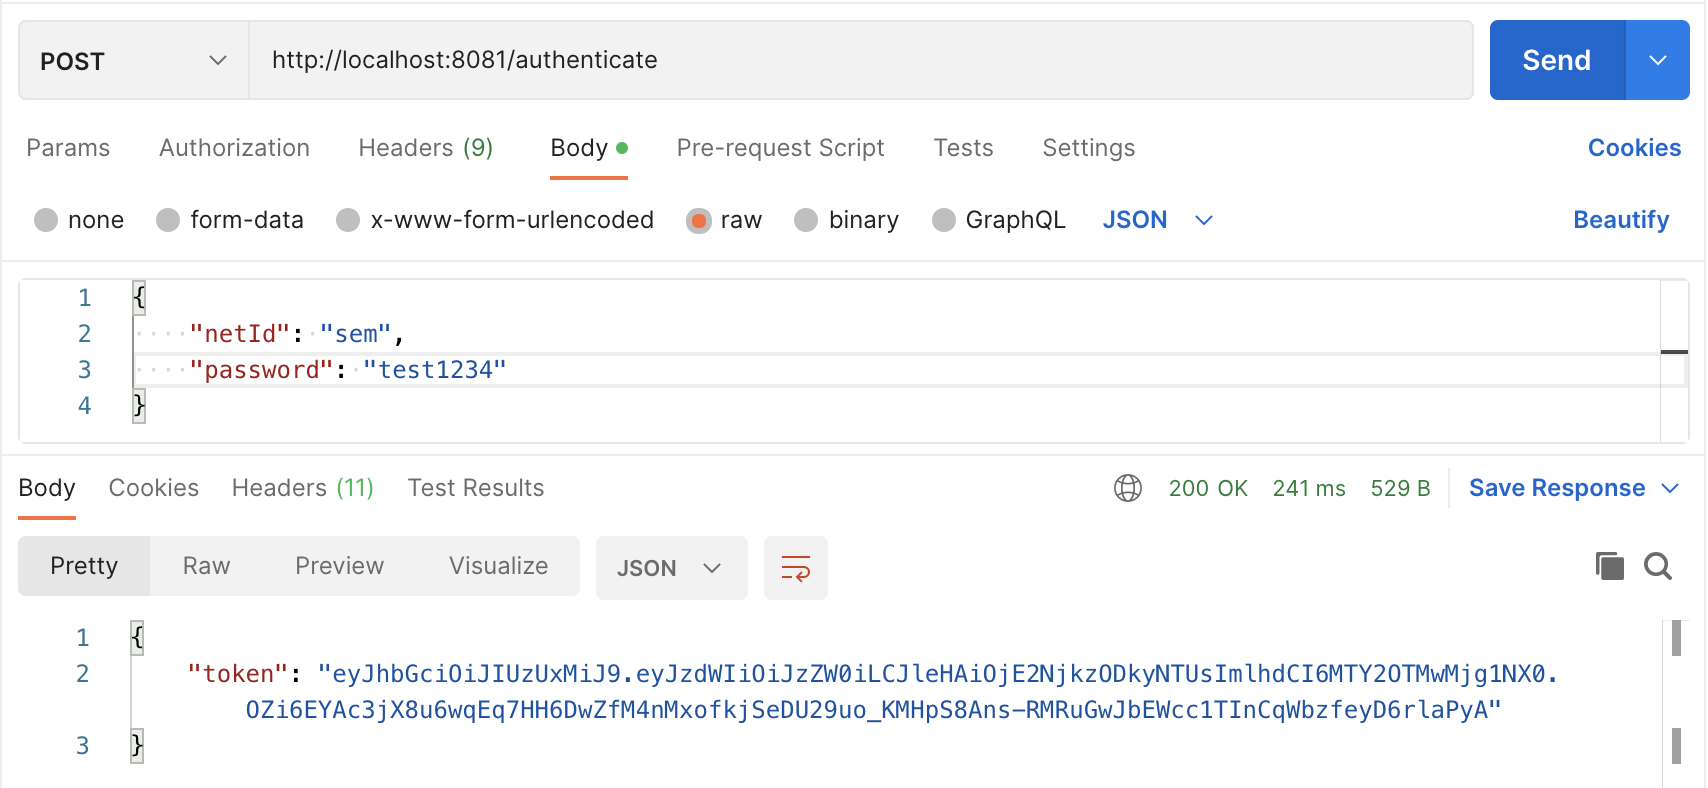
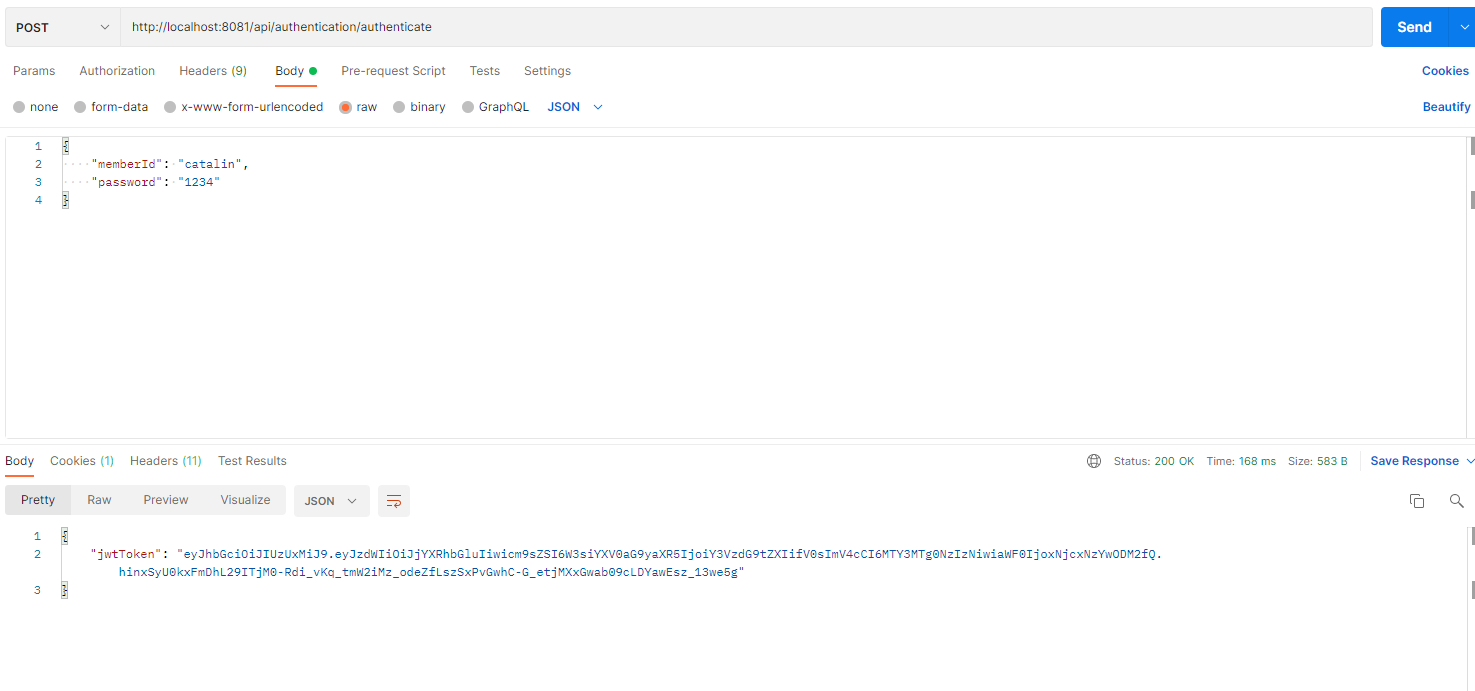
Updating the README file

diff --git a/order-microservice/src/main/java/nl/tudelft/sem/group06b/order/communication/MenuCommunication.java b/order-microservice/src/main/java/nl/tudelft/sem/group06b/order/communication/MenuCommunication.java
@@ -129,7 +129,7 @@ public class MenuCommunication {
         HttpEntity request = new HttpEntity(headers);
         ResponseEntity<String> response = restTemplate.exchange(
                 menuUrl + "/containsAllergenTopping/" + toppingId + "/" + memberId,
-                HttpMethod.GET,
+                HttpMethod.POST,
                 request,
                 String.class
         );

diff --git a/README.md b/README.md
@@ -1,27 +1,186 @@
-# Lab Template
+# Project: Anni's Pizza
 
-This template contains two microservices:
+This project contains six microservices:
 - authentication-microservice
-- example-microservice
+- coupon-microservice
+- menu-microservice
+- order-microservice
+- store-microservice
+- user-microservice
 
-The `authentication-microservice` is responsible for registering new users and authenticating current ones. After successful authentication, this microservice will provide a JWT token which can be used to bypass the security on the `example-microservice`. This token contains the *NetID* of the user that authenticated. If your scenario includes different roles, these will have to be added to the authentication-microservice and to the JWT token. To do this, you will have to:
-- Add a concept of roles to the `AppUser`
-- Add the roles to the `UserDetails` in `JwtUserDetailsService`
-- Add the roles as claims to the JWT token in `JwtTokenGenerator`
+The `authentication-microservice` is responsible for registering new users and authenticating current ones. After successful authentication, this microservice will provide a JWT token which can be used to bypass the security on the other microservices. This token contains the *memberId* of the user that authenticated.
 
-The `example-microservice` is just an example and needs to be modified to suit the domain you are modeling based on your scenario.
+The `coupon-microservice` is responsible for validating coupon codes and for choosing the best coupon code for minimizing order type. This microservice allows new coupon codes to be added and also to take a possible order and to check if a coupon code gives a better price and return the new price.
+
+The `menu-microservice` is responsible for providing all available assortments of pizza that are available for ordering, while allowing configuring items with customizable toppings and also filtering out or warning users in case of allergens present.
+
+The `order-microservice` is responsible for handling orders. It stores ongoing, placed, finished and canceled orders in a database.
+The order microservice also collects order details. First it collects the order time and location. If the location is not provided the Order will query the Users for the preferred location.
+
+The `store-microservice` is responsible for keeping track of possible store locations. This microservice allows the regional manager to add new or remove existing stores. The store microservice is also responsible for encapsulating dummy email functionality.
+
+The `user-microservice` is responsible for keeping track of allergies that the user has and the location of their preferred store. The user is authenticated using the token given from the authentication microservice. The allergens are queried by the menu and order microservices in order to filter out items or notify the user that they might be allergic to the item.
 
 The `domain` and `application` packages contain the code for the domain layer and application layer. The code for the framework layer is the root package as *Spring* has some limitations on were certain files are located in terms of autowiring.
 
 ## Running the microservices
 
-You can run the two microservices individually by starting the Spring applications. Then, you can use *Postman* to perform the different requests:
+You can run the microservices individually by starting the Spring applications. Then, you can use *Postman* to perform the different requests:
 
-Register:
+### Step 1: Authentication
+#### Register:
 ![image](instructions/register.png)
 
-Authenticate:
+#### Authenticate:
+In case you are a regional manager, change the role first:
+
+![image](instructions/change_role.png)
+
 ![image](instructions/authenticate.png)
 
-Hello:
-![image](instructions/hello.png)
+In case you are a store manager, register with the name `StoremanagerX`, where instead of X you put the id of the store you're an admin of. Then change the role to `store_manager`. Then authenticate.
+
+### Step 2: User Registration (If you are a customer)
+As a customer, you can set your allergens in your details so that you don't have to manually add them every time you order. 
+
+#### To do this, first you add the allergens: 
+
+![image](instructions/user_add_allergen.png)
+
+#### You can also remove any allergen:
+
+![image](instructions/user_remove_allergen.png)
+
+#### You are able to see all of your selected allergens:
+
+![image](instructions/user_get_allergen.png)
+
+### Step 3: Adding stores to database (If you are a regional manager)
+By default, we store 10 stores on the database
+
+To add/delete stores you have to be a regional manager.
+
+#### Adding stores:
+
+![image](instructions/add_store.png)
+
+#### Deleting stores:
+
+![image](instructions/remove_store.png)
+
+#### Viewing all stores:
+
+![image](instructions/get_all_stores.png)
+
+#### Sending emails:
+
+![image](instructions/send_emails.png)
+
+#### Viewing emails of a specific store:
+
+![image](instructions/email_by_store.png)
+
+#### Viewing emails of all stores:
+
+![image](instructions/get_all_emails.png)
+
+### Step 4: Adding coupons to database (If you are a regional manager)
+To add/delete coupons you have to be a regional manager. 
+You can add coupons either in the form of a "discount", or a "one off" (get the most expensive item from order for free)
+
+#### Adding coupons:
+
+![image](instructions/add_coupon.png)
+
+#### Deleting coupons:
+
+![image](instructions/remove_coupon.png)
+
+#### Viewing all coupons:
+
+![image](instructions/get_coupons.png)
+
+### Step 5: Adding toppings and pizza's to the menu (If you are a regional manager)
+To add/delete toppings and pizzas from the menu you have to be a regional manager.
+
+#### Adding allergen:
+
+![image](instructions/add_allergen.png)
+
+#### Adding toppings (possibly containing allergens):
+
+![image](instructions/add_topping.png)
+
+#### Removing toppings:
+
+![image](instructions/remove_topping.png)
+
+#### Viewing all toppings:
+
+![image](instructions/get_toppings.png)
+
+#### Adding pizzas:
+
+![image](instructions/add_pizza.png)
+
+#### Removing pizzas:
+
+![image](instructions/remove_pizza.png)
+
+#### Viewing all pizzas:
+
+![image](instructions/get_pizzas.png)
+
+#### Filter all toppings by user's allergens:
+
+![image](instructions/filter_topping.png)
+
+#### Filter all pizzas by user's allergens:
+
+![image](instructions/filter_pizza.png)
+
+### Step 6: Ordering
+
+As a customer, this is the process of ordering.
+
+#### Starting an order:
+
+![image](instructions/start_order.png)
+
+#### Setting the location of an order (it has to be the location of a valid store):
+
+![image](instructions/set_location.png)
+
+#### Setting the desired time of an order:
+
+![image](instructions/set_time.png)
+
+#### Adding a pizza to an order:
+
+![image](instructions/order_add_pizza.png)
+
+#### Removing a pizza from an order:
+
+![image](instructions/order_remove_pizza.png)
+
+#### Editing a pizza (By adding/removing toppings from it):
+
+Adding topping:
+
+![image](instructions/order_add_topping.png)
+
+Removing topping:
+
+![image](instructions/order_remove_topping.png)
+
+#### Placing an order:
+
+![image](instructions/place_order.png)
+
+#### Cancelling an order:
+
+![image](instructions/cancel_order.png)
+
+#### Applying a coupon to an order (it has to be a valid coupon):
+
+![image](instructions/order_add_coupon.png)
